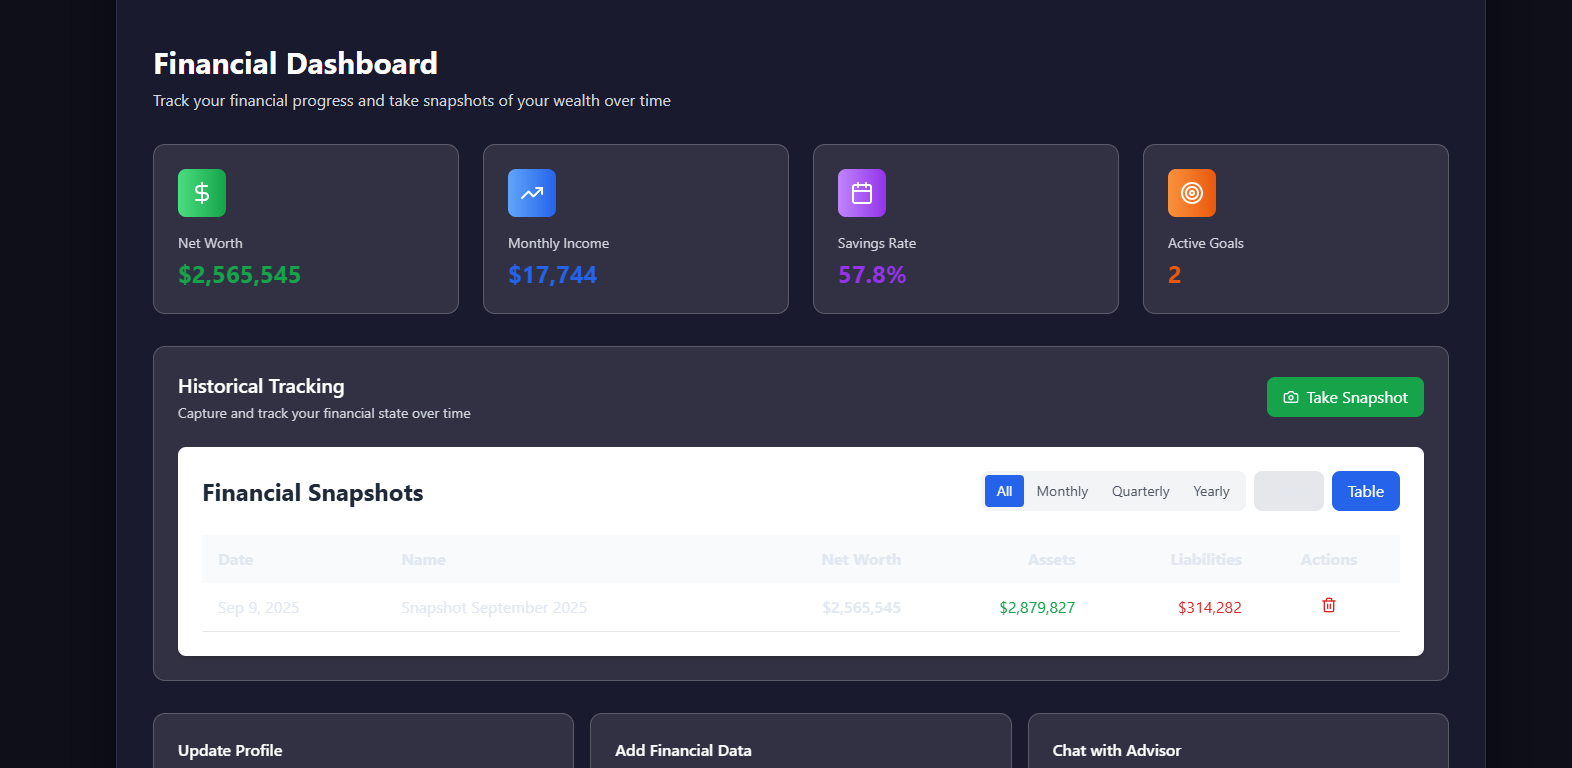
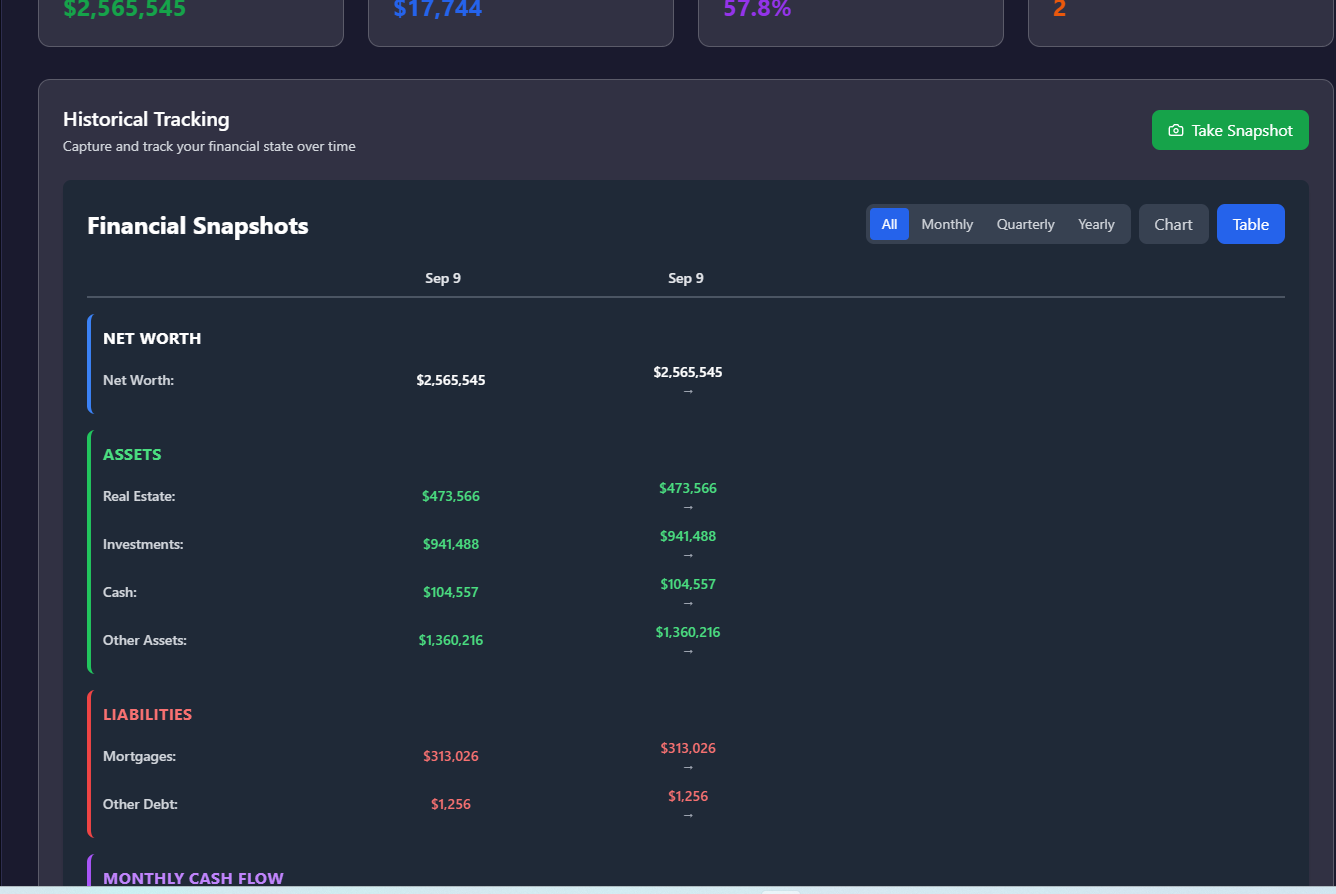
Update: Wed 09/10/2025  1:14:47.56

diff --git a/frontend/src/components/SnapshotTimeline.tsx b/frontend/src/components/SnapshotTimeline.tsx
@@ -90,16 +90,11 @@ const SnapshotTimeline: React.FC<SnapshotTimelineProps> = ({ refreshTrigger }) =
   };
 
   const renderTrendRow = (label: string, values: number[], colorClass: string = 'text-white') => (
-    <div className="grid grid-cols-5 gap-4 items-center py-2">
-      <div className="text-gray-300 font-medium">{label}:</div>
+    <div className="grid grid-cols-5 gap-3 items-center py-0.5">
+      <div className="text-gray-300 font-medium text-xs">{label}:</div>
       {values.map((value, index) => (
         <div key={index} className="text-center">
-          <div className={`${colorClass} font-medium`}>{formatCurrency(value)}</div>
-          {index > 0 && (
-            <div className="text-sm text-gray-400 mt-1">
-              {getTrendArrow(value, values[index - 1])}
-            </div>
-          )}
+          <div className={`${colorClass} font-medium text-xs`}>{formatCurrency(value)}</div>
         </div>
       ))}
     </div>
@@ -188,63 +183,69 @@ const SnapshotTimeline: React.FC<SnapshotTimelineProps> = ({ refreshTrigger }) =
           )}
 
           {view === 'table' && detailedSnapshots.length >= 2 && (
-            <div className="space-y-6">
+            <div className="space-y-2">
               {/* Date Headers */}
-              <div className="grid grid-cols-5 gap-4 mb-4">
-                <div className="text-gray-400 font-medium"></div>
+              <div className="grid grid-cols-5 gap-3 mb-2 pb-1 border-b border-gray-600">
+                <div className="text-gray-400 font-medium text-xs"></div>
                 {detailedSnapshots.map((snapshot, index) => (
-                  <div key={index} className="text-center text-gray-300 text-sm font-medium">
+                  <div key={index} className="text-center text-gray-200 text-xs font-semibold">
                     {formatDateForTrends(snapshot.snapshot_date, period)}
                   </div>
                 ))}
               </div>
 
               {/* Net Worth Trend */}
-              <div className="border-b border-gray-600 pb-4">
-                <h3 className="text-lg font-semibold text-white mb-3">Net Worth Trend</h3>
-                {renderTrendRow('Net Worth', detailedSnapshots.map(s => s.net_worth), 'text-white font-semibold')}
+              <div className="bg-gray-750 rounded p-2 border-l-2 border-blue-500">
+                <h3 className="text-sm font-bold text-white mb-1 uppercase tracking-wide">Net Worth</h3>
+                {renderTrendRow('Net Worth', detailedSnapshots.map(s => s.net_worth), 'text-white font-bold')}
               </div>
 
               {/* Asset Breakdown */}
-              <div className="border-b border-gray-600 pb-4">
-                <h3 className="text-lg font-semibold text-white mb-3">ASSETS</h3>
-                {renderTrendRow('Real Estate', detailedSnapshots.map(s => s.categorized.real_estate), 'text-green-400')}
-                {renderTrendRow('Investments', detailedSnapshots.map(s => s.categorized.investments), 'text-green-400')}
-                {renderTrendRow('Cash', detailedSnapshots.map(s => s.categorized.cash), 'text-green-400')}
-                {detailedSnapshots.some(s => s.categorized.other_assets > 0) && 
-                  renderTrendRow('Other Assets', detailedSnapshots.map(s => s.categorized.other_assets), 'text-green-400')}
+              <div className="bg-gray-750 rounded p-2 border-l-2 border-green-500">
+                <h3 className="text-sm font-bold text-green-400 mb-1 uppercase tracking-wide">Assets</h3>
+                <div className="space-y-0">
+                  {renderTrendRow('Real Estate', detailedSnapshots.map(s => s.categorized.real_estate), 'text-green-400')}
+                  {renderTrendRow('Investments', detailedSnapshots.map(s => s.categorized.investments), 'text-green-400')}
+                  {renderTrendRow('Cash', detailedSnapshots.map(s => s.categorized.cash), 'text-green-400')}
+                  {detailedSnapshots.some(s => s.categorized.other_assets > 0) && 
+                    renderTrendRow('Other Assets', detailedSnapshots.map(s => s.categorized.other_assets), 'text-green-400')}
+                </div>
               </div>
 
               {/* Liability Breakdown */}
-              <div className="border-b border-gray-600 pb-4">
-                <h3 className="text-lg font-semibold text-white mb-3">LIABILITIES</h3>
-                {renderTrendRow('Mortgages', detailedSnapshots.map(s => s.categorized.mortgages), 'text-red-400')}
-                {renderTrendRow('Other Debt', detailedSnapshots.map(s => s.categorized.other_debt), 'text-red-400')}
+              <div className="bg-gray-750 rounded p-2 border-l-2 border-red-500">
+                <h3 className="text-sm font-bold text-red-400 mb-1 uppercase tracking-wide">Liabilities</h3>
+                <div className="space-y-0">
+                  {renderTrendRow('Mortgages', detailedSnapshots.map(s => s.categorized.mortgages), 'text-red-400')}
+                  {renderTrendRow('Other Debt', detailedSnapshots.map(s => s.categorized.other_debt), 'text-red-400')}
+                </div>
               </div>
 
               {/* Monthly Cash Flow */}
-              <div className="border-b border-gray-600 pb-4">
-                <h3 className="text-lg font-semibold text-white mb-3">MONTHLY CASH FLOW</h3>
-                {renderTrendRow('Income', detailedSnapshots.map(s => s.monthly_income), 'text-blue-400')}
-                {renderTrendRow('Expenses', detailedSnapshots.map(s => s.monthly_expenses), 'text-orange-400')}
-                {renderTrendRow('Savings', detailedSnapshots.map(s => s.monthly_income - s.monthly_expenses), 'text-purple-400')}
+              <div className="bg-gray-750 rounded p-2 border-l-2 border-purple-500">
+                <h3 className="text-sm font-bold text-purple-400 mb-1 uppercase tracking-wide">Monthly Cash Flow</h3>
+                <div className="space-y-0">
+                  {renderTrendRow('Income', detailedSnapshots.map(s => s.monthly_income), 'text-blue-400')}
+                  {renderTrendRow('Expenses', detailedSnapshots.map(s => s.monthly_expenses), 'text-orange-400')}
+                  {renderTrendRow('Savings', detailedSnapshots.map(s => s.monthly_income - s.monthly_expenses), 'text-purple-400')}
+                </div>
               </div>
 
               {/* Manage Snapshots */}
-              <div className="pt-4">
-                <h3 className="text-lg font-semibold text-white mb-3">Manage Snapshots</h3>
-                <div className="space-y-2">
+              <div className="bg-gray-750 rounded p-2 border-l-2 border-gray-500">
+                <h3 className="text-sm font-bold text-gray-300 mb-1 uppercase tracking-wide">Manage Snapshots</h3>
+                <div className="space-y-0">
                   {detailedSnapshots.map((snapshot) => (
-                    <div key={snapshot.id} className="flex justify-between items-center bg-gray-700 p-3 rounded">
+                    <div key={snapshot.id} className="flex justify-between items-center bg-gray-700 p-1 rounded text-xs">
                       <div className="text-gray-300">
                         <span className="font-medium">{formatDate(snapshot.snapshot_date)}</span>
-                        <span className="ml-2 text-gray-400">({snapshot.snapshot_name || 'Unnamed'})</span>
+                        <span className="ml-1 text-gray-400">({snapshot.snapshot_name || 'Unnamed'})</span>
                       </div>
                       <button
                         onClick={() => deleteSnapshot(snapshot.id)}
                         className="text-red-400 hover:text-red-300 transition-colors"
                       >
-                        <Trash2 className="w-4 h-4" />
+                        <Trash2 className="w-3 h-3" />
                       </button>
                     </div>
                   ))}
